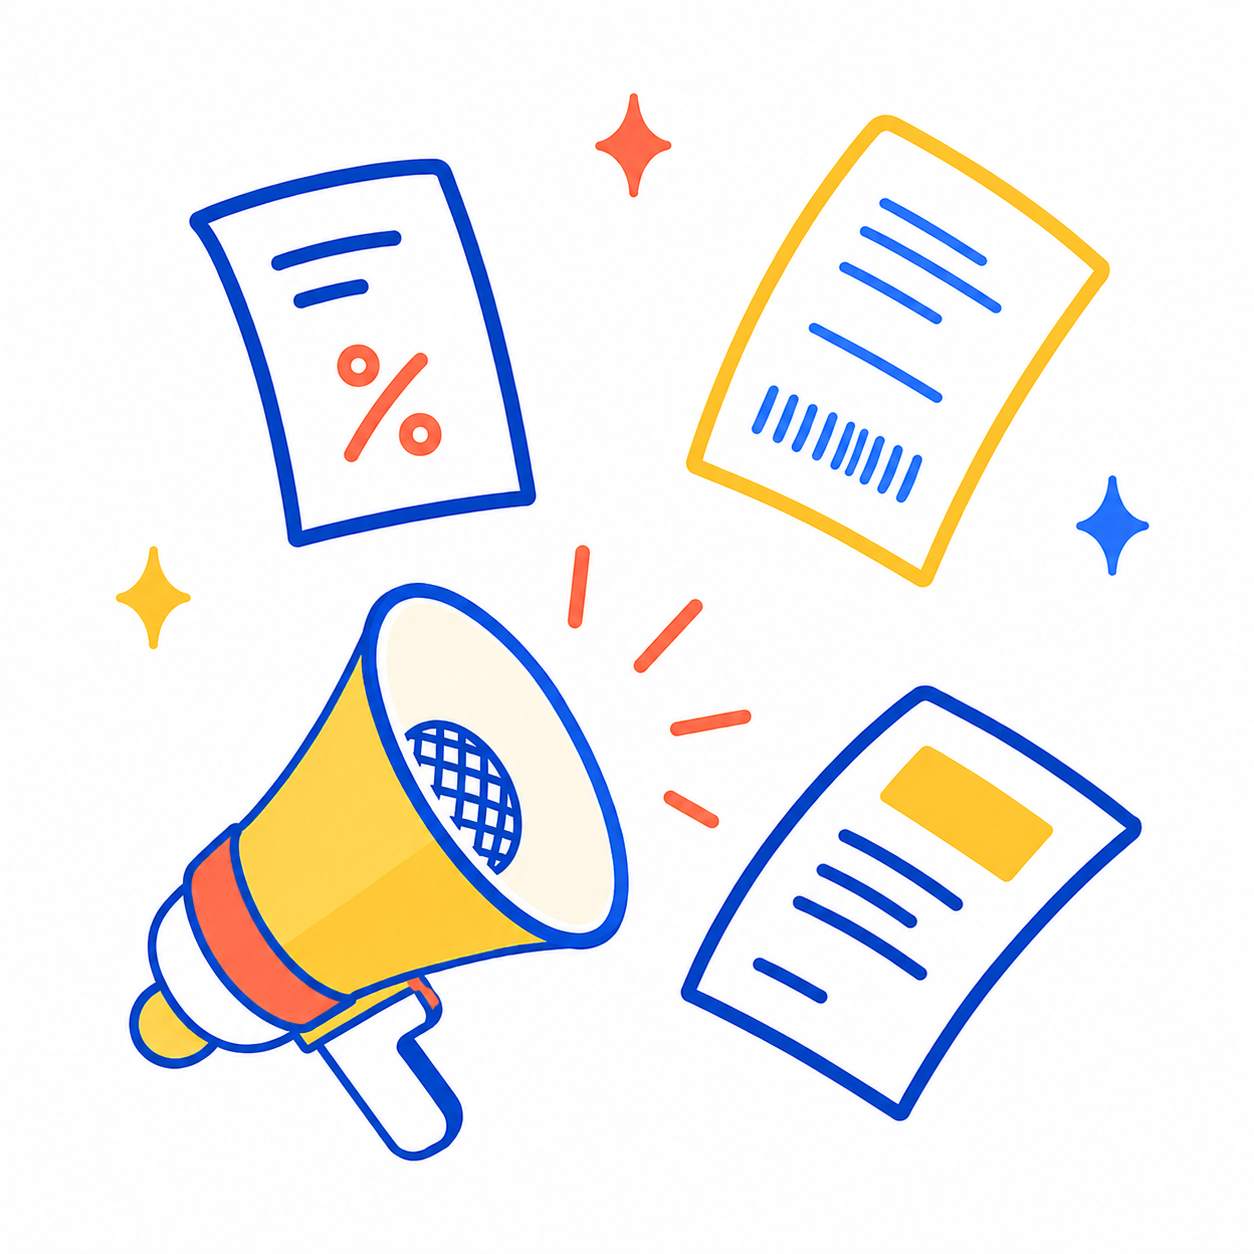
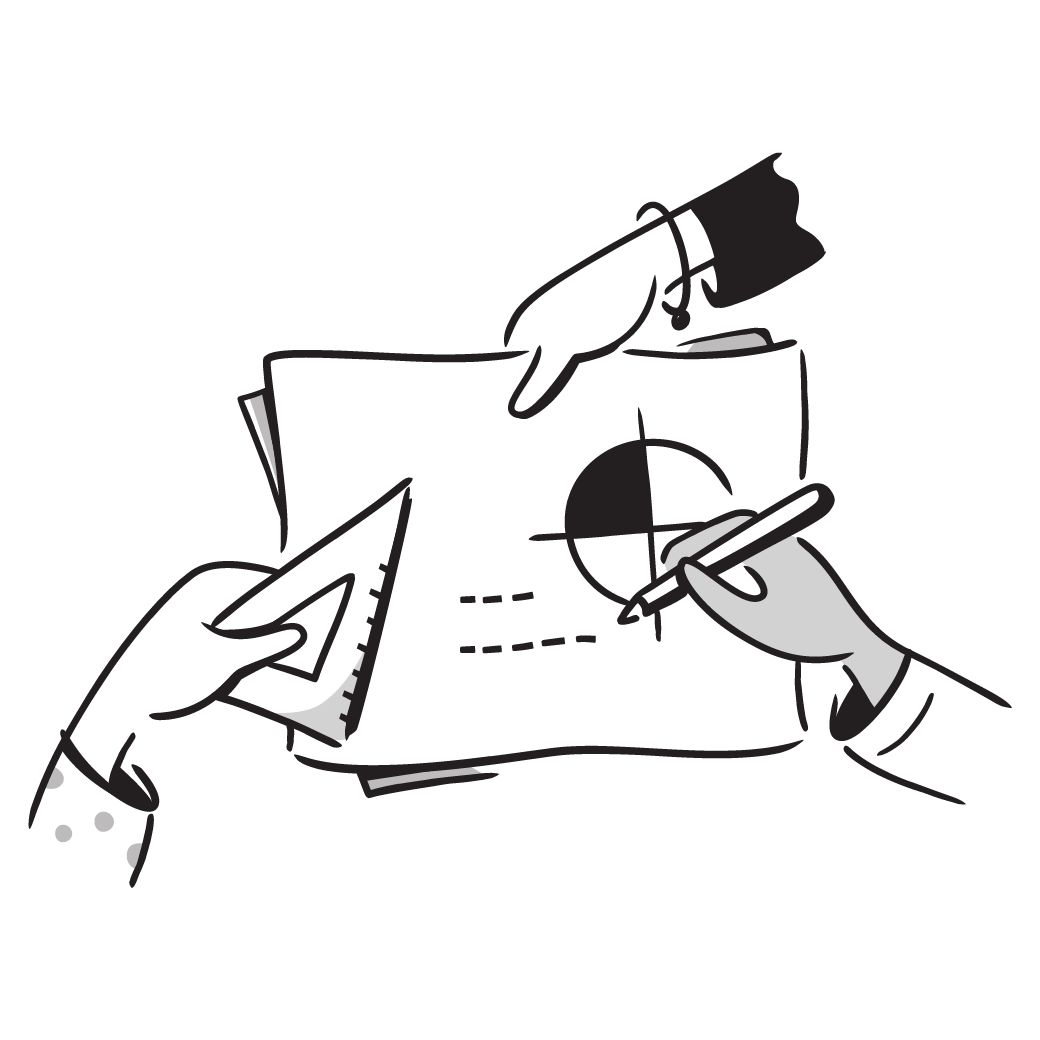
style(company-recruiting): 노션식 카드 그리드·배너 정리 및 생성 페이지 헤더 통일
- 공고 카드: 노션 갤러리식으로 재구성(평평한 테두리·hover 톤, 배지를 본문 태그로 이동, 제목/지원·완료 위계 정리)
- 카드 커버 fallback: JD 첫 이미지 → 회사 로고 → 이미지 없음 placeholder
- 공고 목록/설정/생성 배너 일러스트 교체 및 page-banner 스타일 통일(평평·하단 구분선)
- KPI 카드 흰 배경+테두리, hover 시 파란 테두리
- 공고 생성: page-banner 헤더로 통일(제목·소개·삽화), 섹션 제목 크기 상향

Refs #155

diff --git a/frontend/src/styles/globals.css b/frontend/src/styles/globals.css
@@ -3654,15 +3654,18 @@ td input {
   border: 1px solid rgba(55, 53, 47, 0.1); border-radius: 10px; box-shadow: none; margin-bottom: 24px;
 }
 .glass-page.notion .panel-head h2 { font-size: 16px; font-weight: 600; color: #191919; }
+.glass-page.notion.posting-create-page .panel-head h2 { font-size: 20px; font-weight: 700; letter-spacing: -0.01em; }
+.glass-page.notion.posting-create-page .structured-section-card h3 { font-size: 17px; font-weight: 700; }
 .glass-page.notion .panel-head p { color: rgba(55, 53, 47, 0.6); }
 .glass-page.notion .count-pill { color: #37352f; background: #ededec; }
 
 /* KPI 플랫 */
 .glass-page.notion .kpi-summary { gap: 12px; }
-.glass-page.notion .kpi { background: #f7f7f5; backdrop-filter: none; -webkit-backdrop-filter: none; border: 0; border-radius: 12px; box-shadow: none; padding: 18px 20px; }
+.glass-page.notion .kpi { background: #ffffff; backdrop-filter: none; -webkit-backdrop-filter: none; border: 1px solid rgba(55, 53, 47, 0.1); border-radius: 10px; box-shadow: none; padding: 18px 20px; transition: border-color 0.12s ease; }
+.glass-page.notion .kpi:hover { border-color: #3b6fe0; }
 .glass-page.notion .kpi span { font-size: 13px; font-weight: 500; color: rgba(55, 53, 47, 0.6); }
 .glass-page.notion .kpi strong { color: #191919; font-weight: 700; font-variant-numeric: tabular-nums; }
-.glass-page.notion .kpi.primary { background: #f7f7f5; box-shadow: none; }
+.glass-page.notion .kpi.primary { background: #ffffff; box-shadow: none; }
 .glass-page.notion .kpi.primary span { color: rgba(55, 53, 47, 0.6); }
 .glass-page.notion .kpi.primary strong { color: #3b6fe0; }
 .glass-page.notion .kpi strong small { color: rgba(55, 53, 47, 0.55); }
@@ -3691,14 +3694,24 @@ td input {
 
 /* 상태 뱃지 파스텔 */
 .glass-page.notion .badge { font-weight: 500; }
-.glass-page.notion .badge.success { color: #448361; background: #edf3ec; }
+.glass-page.notion .badge.success { color: #0f7a43; background: #d5f2df; }
 .glass-page.notion .badge.warning { color: #d9730d; background: #faebdd; }
 .glass-page.notion .badge.danger { color: #c4554d; background: #fdebec; }
 .glass-page.notion .badge.info { color: #337ea9; background: #e7f3f8; }
 .glass-page.notion .badge.neutral { color: #787774; background: #f1f1ef; }
 
 /* 공고 생성 빌더 flatten */
-.glass-page.notion .structured-create-hero { background: #fbfbfa; border-color: rgba(55, 53, 47, 0.08); }
+.glass-page.notion .structured-create-hero { display: grid; grid-template-columns: minmax(0, 1fr) auto; align-items: center; gap: 24px; margin-bottom: 24px; padding: 8px 4px 24px; background: transparent; border: 0; border-bottom: 1px solid rgba(55, 53, 47, 0.12); border-radius: 0; box-shadow: none; }
+.glass-page.notion .structured-create-hero .panel-head { margin: 0; padding: 0; }
+.glass-page.notion .structured-create-hero .panel-head > div { display: grid; gap: 12px; }
+.glass-page.notion .structured-create-hero .eyebrow { margin: 0; font-size: 14px; font-weight: 500; letter-spacing: 0.02em; color: rgba(55, 53, 47, 0.55); }
+.glass-page.notion .structured-create-hero h2 { margin: 0; font-size: 40px; font-weight: 800; letter-spacing: -0.03em; line-height: 1.1; color: #191919; }
+.glass-page.notion .structured-create-hero .panel-head p:last-child { margin: 2px 0 0; max-width: 560px; font-size: 16px; line-height: 1.6; color: rgba(55, 53, 47, 0.7); word-break: keep-all; overflow-wrap: break-word; }
+.glass-page.notion .create-hero-art { width: 300px; height: 300px; object-fit: contain; flex: none; margin: -24px -4px -24px 0; }
+@media (max-width: 720px) {
+  .glass-page.notion .structured-create-hero { grid-template-columns: 1fr; }
+  .glass-page.notion .create-hero-art { display: none; }
+}
 .glass-page.notion .structured-section-card { background: #fff; border-color: rgba(55, 53, 47, 0.1); border-radius: 8px; }
 .glass-page.notion .mini-rich-editor { border-color: rgba(55, 53, 47, 0.16); border-radius: 6px; }
 .glass-page.notion .mini-rich-editor:focus-within { border-color: #3b6fe0; box-shadow: 0 0 0 2px rgba(59, 111, 224, 0.2); }
@@ -3715,12 +3728,13 @@ td input {
   grid-template-columns: minmax(0, 1fr) auto;
   align-items: center;
   gap: 24px;
-  margin-bottom: 30px;
-  padding: 30px 34px;
-  background: #ffffff;
-  border: 1px solid rgba(55, 53, 47, 0.07);
-  border-radius: 16px;
-  box-shadow: 0 8px 28px rgba(55, 53, 47, 0.08);
+  margin-bottom: 24px;
+  padding: 8px 4px 24px;
+  background: transparent;
+  border: 0;
+  border-bottom: 1px solid rgba(55, 53, 47, 0.12);
+  border-radius: 0;
+  box-shadow: none;
 }
 .notion .page-banner-copy {
   display: grid;
@@ -3747,6 +3761,8 @@ td input {
   font-size: 16px;
   line-height: 1.6;
   color: rgba(55, 53, 47, 0.7);
+  word-break: keep-all;
+  overflow-wrap: break-word;
 }
 .notion .page-banner .banner-cta {
   position: static;
@@ -3771,8 +3787,8 @@ td input {
 
 /* ---- 리스트(공고 목록) 노션 커넥션즈식 ---- */
 .notion.list-page.app-page:not(.posting-create-page) { width: min(1080px, 100%); }
-.glass-page.notion.list-page .panel { background: transparent; backdrop-filter: none; -webkit-backdrop-filter: none; border: 0; border-radius: 0; box-shadow: none; padding: 0; }
-.glass-page.notion.list-page .panel-head { padding: 0 8px 12px; border-bottom: 1px solid rgba(55, 53, 47, 0.09); }
+.glass-page.notion.list-page .panel { background: transparent; backdrop-filter: none; -webkit-backdrop-filter: none; border: 0; border-top: 1px solid rgba(55, 53, 47, 0.12); border-radius: 0; box-shadow: none; margin-top: 24px; padding: 24px 0 0; }
+.glass-page.notion.list-page .panel-head { padding: 0 8px 12px; }
 .notion.list-page .posting-filter-chips { display: flex; flex-wrap: wrap; gap: 8px; margin: 16px 0 4px; }
 .notion .filter-chip { height: 34px; padding: 0 15px; color: #37352f; font-family: inherit; font-size: 13.5px; font-weight: 500; background: #fff; border: 1px solid rgba(55, 53, 47, 0.16); border-radius: 999px; cursor: pointer; transition: background 0.15s, border-color 0.15s, color 0.15s; }
 .notion .filter-chip:hover { background: #f5f5f3; }
@@ -3858,7 +3874,7 @@ td input {
 .notion.list-page .posting-grid {
   display: grid;
   grid-template-columns: repeat(3, minmax(0, 1fr));
-  gap: 20px;
+  gap: 16px;
   padding-top: 10px;
 }
 @media (max-width: 900px) {
@@ -3876,19 +3892,18 @@ td input {
   flex-direction: column;
   min-width: 0;
   background: #ffffff;
-  border: 1px solid rgba(55, 53, 47, 0.07);
-  border-radius: 14px;
+  border: 1px solid rgba(55, 53, 47, 0.1);
+  border-radius: 10px;
   overflow: hidden;
-  box-shadow: 0 1px 2px rgba(15, 15, 15, 0.04), 0 6px 18px rgba(15, 15, 15, 0.05);
-  transition: transform 0.18s ease, box-shadow 0.18s ease, border-color 0.18s ease;
+  box-shadow: none;
+  transition: background 0.12s ease, border-color 0.12s ease;
 }
 .notion .posting-card.is-clickable {
   cursor: pointer;
 }
 .notion .posting-card.is-clickable:hover {
-  transform: translateY(-2px);
-  border-color: rgba(55, 53, 47, 0.12);
-  box-shadow: 0 2px 4px rgba(15, 15, 15, 0.05), 0 12px 28px rgba(15, 15, 15, 0.1);
+  border-color: rgba(55, 53, 47, 0.16);
+  background: #fbfbfa;
 }
 .notion .posting-card.is-clickable:focus-visible {
   outline: 2px solid #3b6fe0;
@@ -4105,34 +4120,24 @@ td input {
   line-height: 1;
 }
 
-/* ---- 공고 카드 v3 (부동산 리스트식) ---- */
+/* ---- 공고 카드 v4 (노션 갤러리식) ---- */
 .notion .posting-card {
   padding: 0;
   overflow: hidden;
 }
 .notion .pcard-cover {
   position: relative;
-  height: 168px;
-  padding: 14px;
+  height: 132px;
+  border-bottom: 1px solid rgba(55, 53, 47, 0.08);
 }
 .notion .pcard-cover.has-image {
   background-position: center;
   background-size: cover;
   background-repeat: no-repeat;
 }
-.notion .pcard-cover.has-image::before {
-  content: "";
-  position: absolute;
-  inset: 0;
-  background: linear-gradient(180deg, rgba(0, 0, 0, 0.28) 0%, rgba(0, 0, 0, 0) 45%);
-  pointer-events: none;
-}
 .notion .pcard-cover.is-placeholder {
-  background-size: 132px;
-  background-color: #f7f8fa;
-}
-.notion .pcard-cover.is-placeholder::before {
-  background: none;
+  background-size: 108px;
+  background-color: #f7f7f5;
 }
 .notion .pcard-cover-logo {
   position: absolute;
@@ -4142,41 +4147,43 @@ td input {
   opacity: 0.9;
 }
 .notion .pcard-cover-badges {
-  position: relative;
-  display: flex;
-  flex-wrap: wrap;
-  gap: 6px;
-}
-.notion .pcard-cover-badges .badge {
-  background: #ffffff;
-}
-.notion .pcard-dday {
-  display: inline-flex;
-  align-items: center;
-  height: 25px;
-  padding: 0 11px;
-  color: #37352f;
-  font-size: 12px;
-  font-weight: 600;
-  background: #ffffff;
-  border-radius: 999px;
-}
-.notion .pcard-dday.is-danger {
-  color: #c4554d;
+  display: none;
 }
 .notion .pcard-body {
   display: flex;
   flex: 1;
   flex-direction: column;
   gap: 8px;
-  padding: 18px 18px 20px;
+  padding: 14px 16px 16px;
+}
+.notion .pcard-tags {
+  display: flex;
+  flex-wrap: wrap;
+  align-items: center;
+  gap: 6px;
+}
+.notion .pcard-tags .badge {
+  height: 22px;
+  min-height: 22px;
+  padding: 0 9px;
+  font-size: 11.5px;
+  font-weight: 600;
+  border-radius: 4px;
+}
+.notion .pcard-dday {
+  font-size: 12px;
+  font-weight: 500;
+  color: rgba(55, 53, 47, 0.5);
+}
+.notion .pcard-dday.is-danger {
+  color: #c4554d;
 }
 .notion .pcard-title {
-  margin: 0;
-  font-size: 18px;
-  font-weight: 700;
+  margin: 2px 0 0;
+  font-size: 15.5px;
+  font-weight: 600;
   color: #191919;
-  line-height: 1.35;
+  line-height: 1.4;
   letter-spacing: -0.01em;
   display: -webkit-box;
   -webkit-line-clamp: 2;
@@ -4184,12 +4191,13 @@ td input {
   overflow: hidden;
 }
 .notion .pcard-sub {
-  margin: 0;
-  font-size: 14px;
-  color: rgba(55, 53, 47, 0.6);
+  margin: auto 0 0;
+  padding-top: 6px;
+  font-size: 13px;
+  color: rgba(55, 53, 47, 0.55);
 }
 .notion .pcard-sub strong {
   font-weight: 600;
-  color: #37352f;
+  color: rgba(55, 53, 47, 0.75);
   font-variant-numeric: tabular-nums;
 }

diff --git a/frontend/src/features/company-recruiting/RecruitmentCreatePage.tsx b/frontend/src/features/company-recruiting/RecruitmentCreatePage.tsx
@@ -1,11 +1,11 @@
 "use client";
 
+import Image from "next/image";
 import Link from "next/link";
 import { useRouter } from "next/navigation";
 import { ChangeEvent, FormEvent, KeyboardEvent, useRef, useState } from "react";
 
 import { createRecruitment, uploadJobDescriptionImage } from "./api";
-import { Breadcrumb } from "./CompanyRecruitingChrome";
 import { MiniRichTextEditor } from "./MiniRichTextEditor";
 import { JOB_DESCRIPTION_IMAGE_ACCEPT, validateJobDescriptionImageFile } from "./job-description-image-upload";
 import {
@@ -25,6 +25,7 @@ import {
   type StructuredJobImage,
   type StructuredJobSectionKey,
 } from "./structured-job-description";
+import createBanner from "./assets/create-banner.png";
 
 type FormState = {
   title: string;
@@ -201,33 +202,21 @@ export function RecruitmentCreatePage() {
 
   return (
     <section className="app-page glass-page posting-create-page notion">
-        <div className="page-head">
-          <div>
-            <Breadcrumb
-              items={[
-                { label: "공고 목록", href: "/company/recruitments" },
-                { label: "공고 생성" },
-              ]}
-            />
+        <div className="page-banner">
+          <div className="page-banner-copy">
+            <p className="page-eyebrow">채용 관리</p>
             <h1>공고 생성</h1>
+            <p className="page-sub">구직자가 보는 공고 그대로 입력하세요. 기본 정보, 이미지, 상세 JD, 태그를 순서대로 채우면 공개 공고 화면에 같은 구조로 노출됩니다.</p>
+            <Link className="btn secondary banner-cta" href="/company/recruitments">
+              공고 목록
+            </Link>
           </div>
-          <Link className="btn secondary" href="/company/recruitments">
-            공고 목록
-          </Link>
+          <Image className="page-banner-art" src={createBanner} alt="" width={300} height={300} aria-hidden="true" priority />
         </div>
 
         {message ? <p className="notice danger">{message}</p> : null}
 
         <form className="creation-flow posting-create-flow" onSubmit={handleCreate}>
-            <section className="panel structured-create-hero">
-              <div className="panel-head">
-                <div>
-                  <p className="eyebrow">JOB POSTING BUILDER</p>
-                  <h2>구직자가 보는 공고 그대로 입력하세요</h2>
-                  <p>기본 정보, 이미지, 상세 JD, 태그를 순서대로 채우면 공개 공고 화면에 같은 구조로 노출됩니다.</p>
-                </div>
-              </div>
-            </section>
 
           <section className="panel">
             <div className="panel-head">

diff --git a/frontend/src/features/company-recruiting/CompanyPostingsPage.tsx b/frontend/src/features/company-recruiting/CompanyPostingsPage.tsx
@@ -239,13 +239,13 @@ export function CompanyPostingsPage() {
                     <div
                       className={`pcard-cover has-image${coverIsPlaceholder ? " is-placeholder" : ""}`}
                       style={{ backgroundImage: `url(${coverUrl})` }}
-                    >
-                      <div className="pcard-cover-badges">
+                      aria-hidden="true"
+                    />
+                    <div className="pcard-body">
+                      <div className="pcard-tags">
                         <StatusBadge value={item.status} />
                         <span className={`pcard-dday${ddayLabel(item.endsOn) === "마감" ? " is-danger" : ""}`}>{ddayLabel(item.endsOn)}</span>
                       </div>
-                    </div>
-                    <div className="pcard-body">
                       <h3 className="pcard-title">{item.title}</h3>
                       <p className="pcard-sub">
                         지원 <strong>{item.applicantCount}</strong>명 · 완료 <strong>{rate}%</strong>
